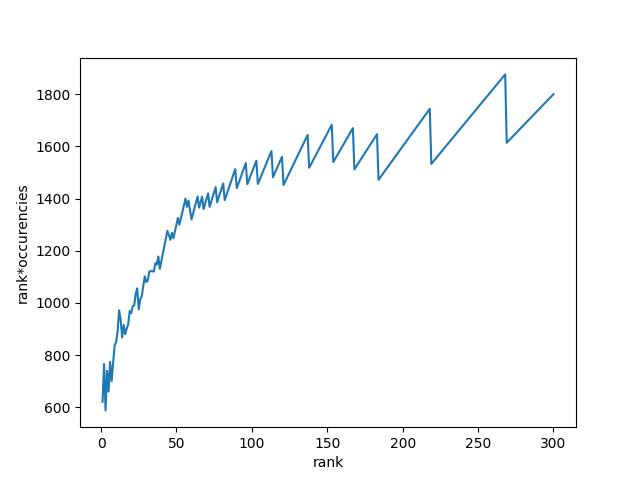
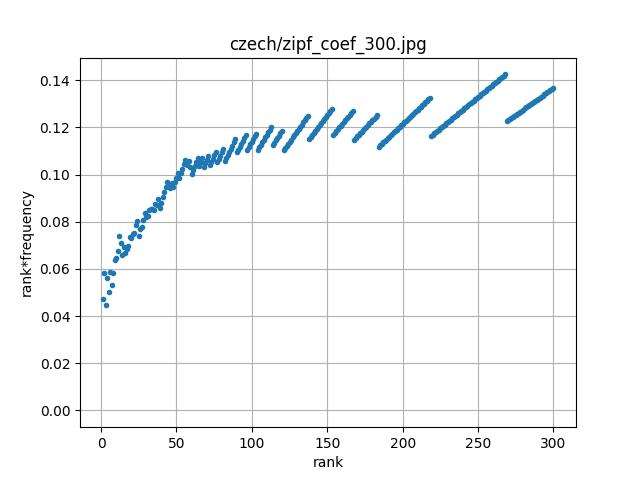
readme

diff --git a/zipf_law.py b/zipf_law.py
@@ -22,28 +22,31 @@ def create_zipf_dict(words: List[str]):
 
 def plot(x, y, xlabel, ylabel, path):
     plt.figure()
-    plt.plot(x, y)
+    plt.ylim(0 - max(y) / 20, max(y) + max(y) / 20)
+    plt.grid()
+    plt.plot(x, y, '.')
     plt.xlabel(xlabel)
     plt.ylabel(ylabel)
+    plt.title(path)
     plt.savefig(os.path.join(OUT_PATH, path))
 
 
 def plot_zipf(words: Dict[str, int], path):
     ranks = np.arange(1, len(words) + 1)
-    values = np.array(list(words.values()))
+    frequency = np.array(list(words.values())) / sum(words.values())
 
-    plot(ranks, values, "rank", "occurencies",
+    plot(ranks, frequency, "rank", "frequency",
          os.path.join(path, "zipf_all.jpg"))
-    plot(ranks, np.multiply(values, ranks), "rank", "rank*occurencies",
+    plot(ranks, np.multiply(frequency, ranks), "rank", "rank*frequency",
          os.path.join(path, "zipf_coef_all.jpg"))
-    plot(ranks[:300], values[:300], "rank", "occurencies",
+    plot(ranks[:300], frequency[:300], "rank", "frequency",
          os.path.join(path, "zipf_300.jpg"))
-    plot(ranks[:300], np.multiply(values[:300], ranks[:300]), "rank",
-         "rank*occurencies", os.path.join(path, "zipf_coef_300.jpg"))
-    plot(ranks[:100], values[:100], "rank", "occurencies",
+    plot(ranks[:300], np.multiply(frequency[:300], ranks[:300]), "rank",
+         "rank*frequency", os.path.join(path, "zipf_coef_300.jpg"))
+    plot(ranks[:100], frequency[:100], "rank", "frequency",
          os.path.join(path, "zipf_100.jpg"))
-    plot(ranks[:100], np.multiply(values[:100], ranks[:100]), "rank",
-         "rank*occurencies", os.path.join(path, "zipf_coef_100.jpg"))
+    plot(ranks[:100], np.multiply(frequency[:100], ranks[:100]), "rank",
+         "rank*frequency", os.path.join(path, "zipf_coef_100.jpg"))
 
 
 def read_voynich_words() -> List[str]:

diff --git a/README.md b/README.md
@@ -1,3 +1,31 @@
-# language-analysis
+# Prównanie języka czeskiego do języka manuskryptu Wojnicza
 
-Voynich manuscrypt comparison to Chech language
+## Prawo Zipfa
+Gdy na podstawie ich korpusów językowych ustali się wykaz wyrazów ułożonych w malejącym porządku częstotliwości ich występowania, to ranga (numer porządkowy) wyrazu jest odwrotnie proporcjonalna do częstotliwości, zatem iloczyn częstotliwości i rangi powinien być wielkością stałą.
+
+### Wyniki analizy dla najczęściej występujących 300 wyrazów
+
+#### Częstotliwość występowania słów o kolejnych rangach - wykres powinien być hiperboliczny
+
+<img src="out/czech/zipf_300.jpg">
+
+Język czeski
+<hr>
+
+<img src="out/voynich/zipf_300.jpg">
+
+Język z manuskryptu
+
+#### Iloczyn częstotliwość występowania słów do ich rangi - wykres powinien być zbliżony do funckji stałej
+
+<img src="out/czech/zipf_coef_300.jpg">
+
+Język czeski
+<hr>
+
+<img src="out/voynich/zipf_coef_300.jpg">
+
+Język z manuskryptu
+
+### Wniosek
+Wykresy wskazują że dla słów o rangach 50-300 prawo Zipfa dla obu języków jest dobrze spełnione - odchylenia od stałej wartości są niewielkie. W przypadkuj języka z manuskryptu wojnicza, z pominięciem kilku najczęściej występujących słów, są one zauważalnie mniejsze niż w analizowanym czeskim tekście
